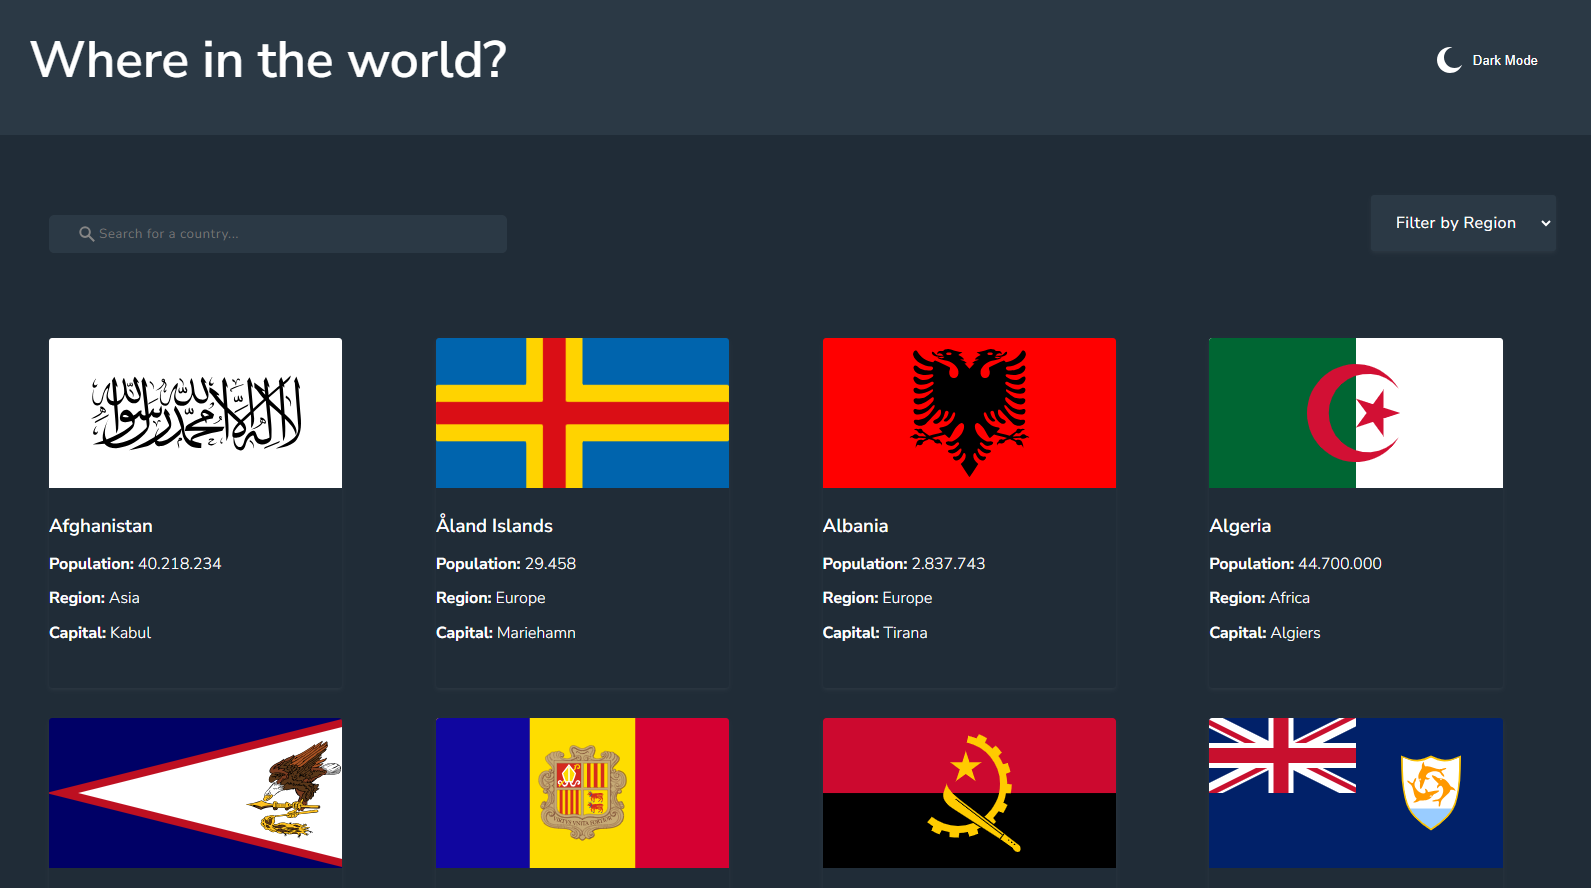
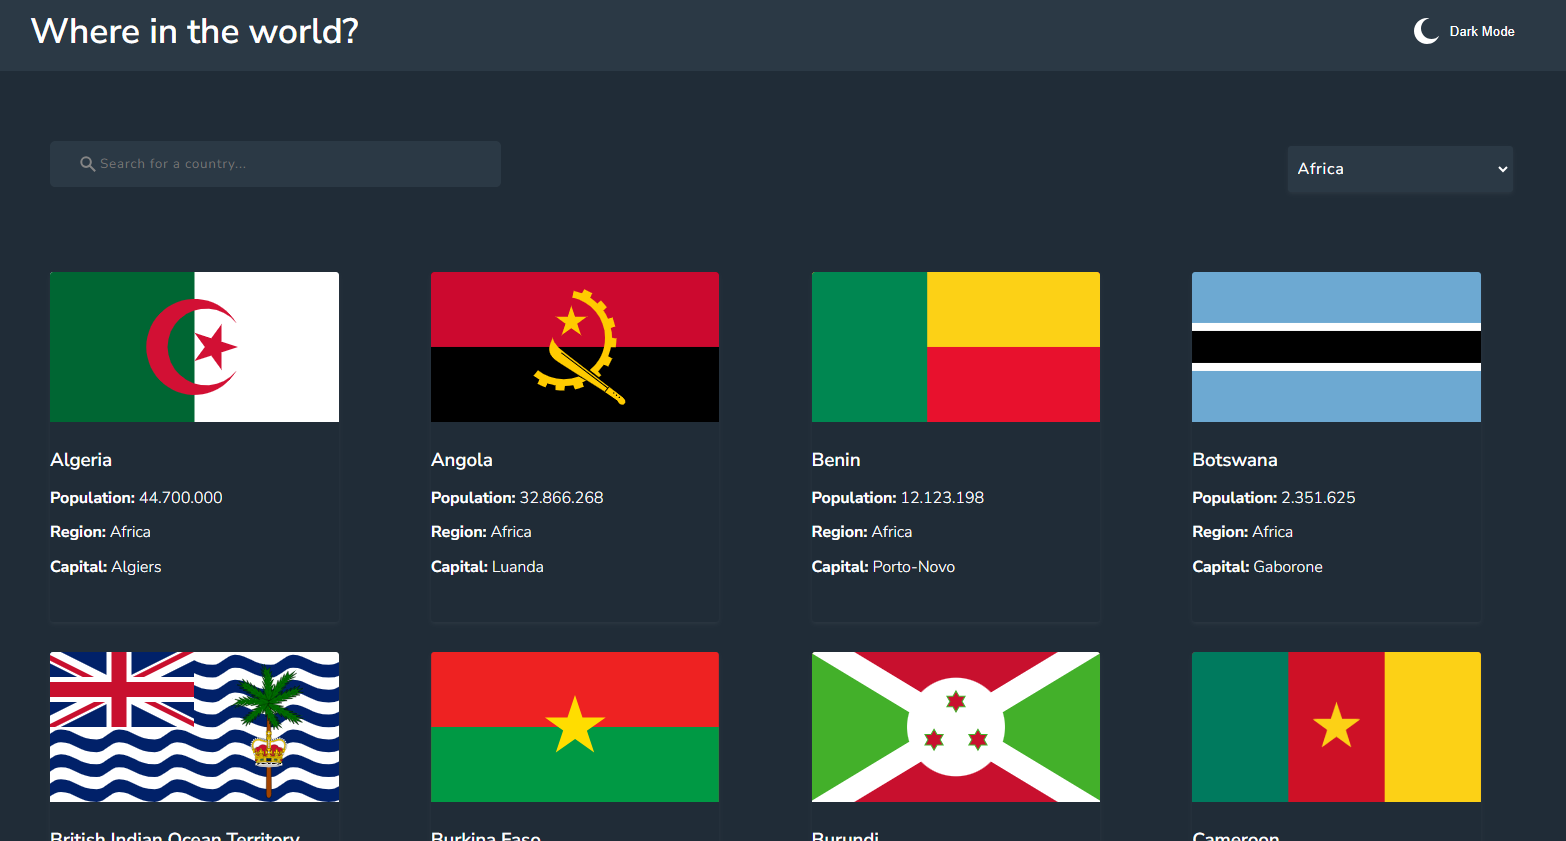
Select accessibility issue solved, URL encoding issue solved

diff --git a/src/components/SelectRegion.jsx b/src/components/SelectRegion.jsx
@@ -1,37 +1,38 @@
 import PropTypes from "prop-types";
 import { useTheme } from "../context/ThemeContext";
+import Select from "./Select";
 import styles from "./SelectRegion.module.css";
 
 function SelectRegion({ setFilterRegion, currentRegion }) {
   const { theme } = useTheme();
-
-  const handleChange = (e) => {
-    setFilterRegion(e.target.value);
-  };
+  const regions = [
+    { id: "africa", name: "Africa" },
+    { id: "americas", name: "Americas" },
+    { id: "asia", name: "Asia" },
+    { id: "europe", name: "Europe" },
+    { id: "oceania", name: "Oceania" },
+  ];
 
   return (
-    <section className="selectRegion_Container">
-      <select
-        onChange={handleChange}
+    <div className={`${styles.selectRegion_Container} ${theme}`}>
+      <Select
+        data={regions}
+        placeholder="Filter by Region"
+        onChange={(e) => setFilterRegion(e.target.value)}
         value={currentRegion}
-        className={`${styles.filterRegion} ${styles[theme]}`}
-        name="select"
-        id="select"
-      >
-        <option value="">Filter by Region</option>
-        <option value="Africa">Africa</option>
-        <option value="Americas">Americas</option>
-        <option value="Asia">Asia</option>
-        <option value="Europe">Europe</option>
-        <option value="Oceania">Oceania</option>
-      </select>
-    </section>
+        className={styles.filterRegion}
+      />
+    </div>
   );
 }
 
 SelectRegion.propTypes = {
   setFilterRegion: PropTypes.func.isRequired,
   currentRegion: PropTypes.string,
+};
+
+SelectRegion.defaultProps = {
+  currentRegion: "",
 };
 
 export default SelectRegion;

diff --git a/src/components/Select.jsx b/src/components/Select.jsx
@@ -1,0 +1,29 @@
+import PropTypes from "prop-types";
+
+const Select = ({ data, placeholder, onChange, value, className }) => {
+  return (
+    <select className={className} onChange={onChange} value={value}>
+      <option value="">{placeholder}</option>
+      {data.map(({ id, name }) => (
+        <option key={id} value={name}>
+          {name}
+        </option>
+      ))}
+    </select>
+  );
+};
+
+Select.propTypes = {
+  data: PropTypes.arrayOf(
+    PropTypes.shape({
+      id: PropTypes.oneOfType([PropTypes.string, PropTypes.number]).isRequired,
+      name: PropTypes.string.isRequired,
+    })
+  ).isRequired,
+  placeholder: PropTypes.string.isRequired,
+  onChange: PropTypes.func.isRequired,
+  value: PropTypes.string,
+  className: PropTypes.string,
+};
+
+export default Select;

diff --git a/src/components/SelectRegion.module.css b/src/components/SelectRegion.module.css
@@ -1,17 +1,28 @@
 .selectRegion_Container {
-  margin: 20px 20px;
-  width: 100%;
+  display: flex;
+  flex-direction: column;
+  margin: 15px 20px;
+  width: 30%;
 }
 
 .filterRegion {
-  padding: 15px 20px;
+  padding: 10px 5px;
   border-radius: 0.2rem;
   font-size: 1rem;
   font-family: inherit;
-  letter-spacing: 0.5px;
-  line-height: 1.5;
+  letter-spacing: 0.8px;
+  line-height: 1.2;
   border: 1px solid transparent;
   cursor: pointer;
-  transition: all 0.3s ease;
-  margin-left: 20px;
+  transition: all 0.1s ease;
+}
+
+.filterRegion:focus {
+  outline: none;
+}
+
+@media (min-width: 768px) {
+  .selectRegion_Container {
+    width: 15%;
+  }
 }

diff --git a/src/pages/Homepage.jsx b/src/pages/Homepage.jsx
@@ -9,10 +9,13 @@ function Homepage() {
   const [filterRegion, setFilterRegion] = useState("All");
 
   return (
-    <main className="main-wrapper">
+    <main className="wrapper">
       <div className={styles.filterBar}>
         <Filter setSearchTerm={setSearchTerm} />
-        <SelectRegion setFilterRegion={setFilterRegion} />
+        <SelectRegion
+          setFilterRegion={setFilterRegion}
+          currentRegion={filterRegion}
+        />
       </div>
       <div className="country-grid-container">
         <CountryList searchTerm={searchTerm} filterRegion={filterRegion} />

diff --git a/src/components/Filter.module.css b/src/components/Filter.module.css
@@ -5,7 +5,7 @@
   border-radius: 5px;
   overflow: hidden;
   width: 100%;
-  margin: 20px 20px;
+  margin: 10px 20px;
 }
 
 .searchInput {
@@ -13,11 +13,12 @@
   border: none;
   outline: none;
   background-color: transparent;
-  padding: 10px;
+  padding: 15px;
   padding-left: 50px;
   border-radius: 5px;
   font-family: inherit;
-  letter-spacing: 0.5px;
+  letter-spacing: 0.8px;
+  line-height: 1.2;
   width: 100%;
 }
 

diff --git a/src/components/CountryCard.jsx b/src/components/CountryCard.jsx
@@ -9,7 +9,10 @@ function CountryCard({ country }) {
     theme === "dark" ? "dark-mode-shadow" : "light-mode-shadow";
 
   return (
-    <Link to={`/country/${country.name.common}`} className={styles.cardLink}>
+    <Link
+      to={`/country/${encodeURIComponent(country.name.common)}`}
+      className={styles.cardLink}
+    >
       <div
         className={`${styles.card} ${shadowClass}`}
         style={{

diff --git a/src/components/Filter.jsx b/src/components/Filter.jsx
@@ -9,7 +9,10 @@ function SearchFilter({ setSearchTerm }) {
     theme === "dark" ? "hsl(0, 0%, 52%)" : "hsl(200, 15%, 8%)";
 
   return (
-    <section className={styles.filter_Container}>
+    <section
+      aria-labelledby="filterHeading"
+      className={styles.filter_Container}
+    >
       <svg
         className={styles.searchIcon}
         width="16"

diff --git a/src/components/Header.module.css b/src/components/Header.module.css
@@ -4,7 +4,7 @@
   align-items: center;
   margin: 0;
   width: 100%;
-  height: 150px;
+  height: 80px;
 }
 
 .title {
@@ -43,7 +43,7 @@
   }
 
   .title {
-    font-size: var(--fs-h1);
+    font-size: var(--fs-h2);
     font-weight: var(--fw-600);
   }
 

diff --git a/README.md b/README.md
@@ -4,8 +4,6 @@ This application is a user-friendly interface for exploring information about co
 
 ![RESTcountry Desktop Dark](/public/images/Screenshots/desktop_dark.png)
 ![RESTcountry Desktop Light](/public/images/Screenshots/desktop_light.png)
-![RESTcountry Desktop Light](/public/images/Screenshots/desktop_dark_details.png)
-![RESTcountry Desktop Light](/public/images/Screenshots/mobile_dark.png)
 ![RESTcountry Desktop Light](/public/images/Screenshots/mobile_light_details.pngt)
 
 ## Features
